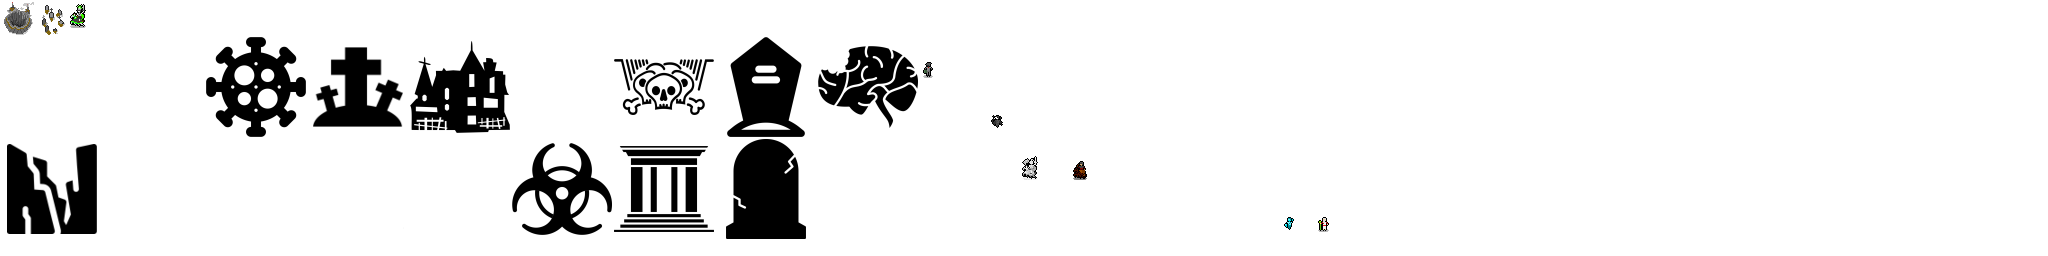
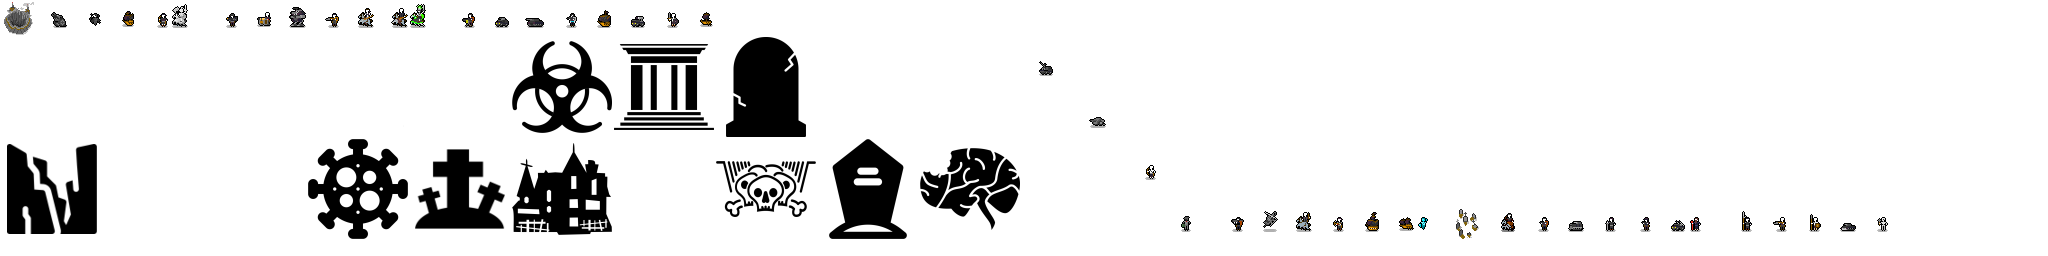
Improvements to game balance, some minor tweaks, new units, and art!

diff --git a/credits.md b/credits.md
@@ -42,10 +42,12 @@ Breach the Walls: [disruptor by Luis Prado](https://thenounproject.com/term/disr
 
 Eat the Living: [fork and knife by John Winowiecki](https://thenounproject.com/term/fork-and-knife/3415220/)
 
+Angel of Death: [wings by Luis Prado](https://thenounproject.com/term/wings/51806/)
+
 Pixel art:
 
 Graveyard and Abyss tile improvements by ekids789789#4813 on Discord
 
-Arms Merchant, Black Death, Ghost, and Lich King units by GeneralWadaling#2878 on Discord
+Arms Merchant, Black Death, Ghost, Warrior-Undead and Lich King units by GeneralWadaling#2878 on Discord
 
-Demi-Lich, Hearse, and Necromancer units based on Great General, Chariot Archer, and Great Prophet units by GeneralWadaling#2878 on Discord
+All other pixel art based on units by GeneralWadaling#2878 with minor modifications by Lodo the Bear
